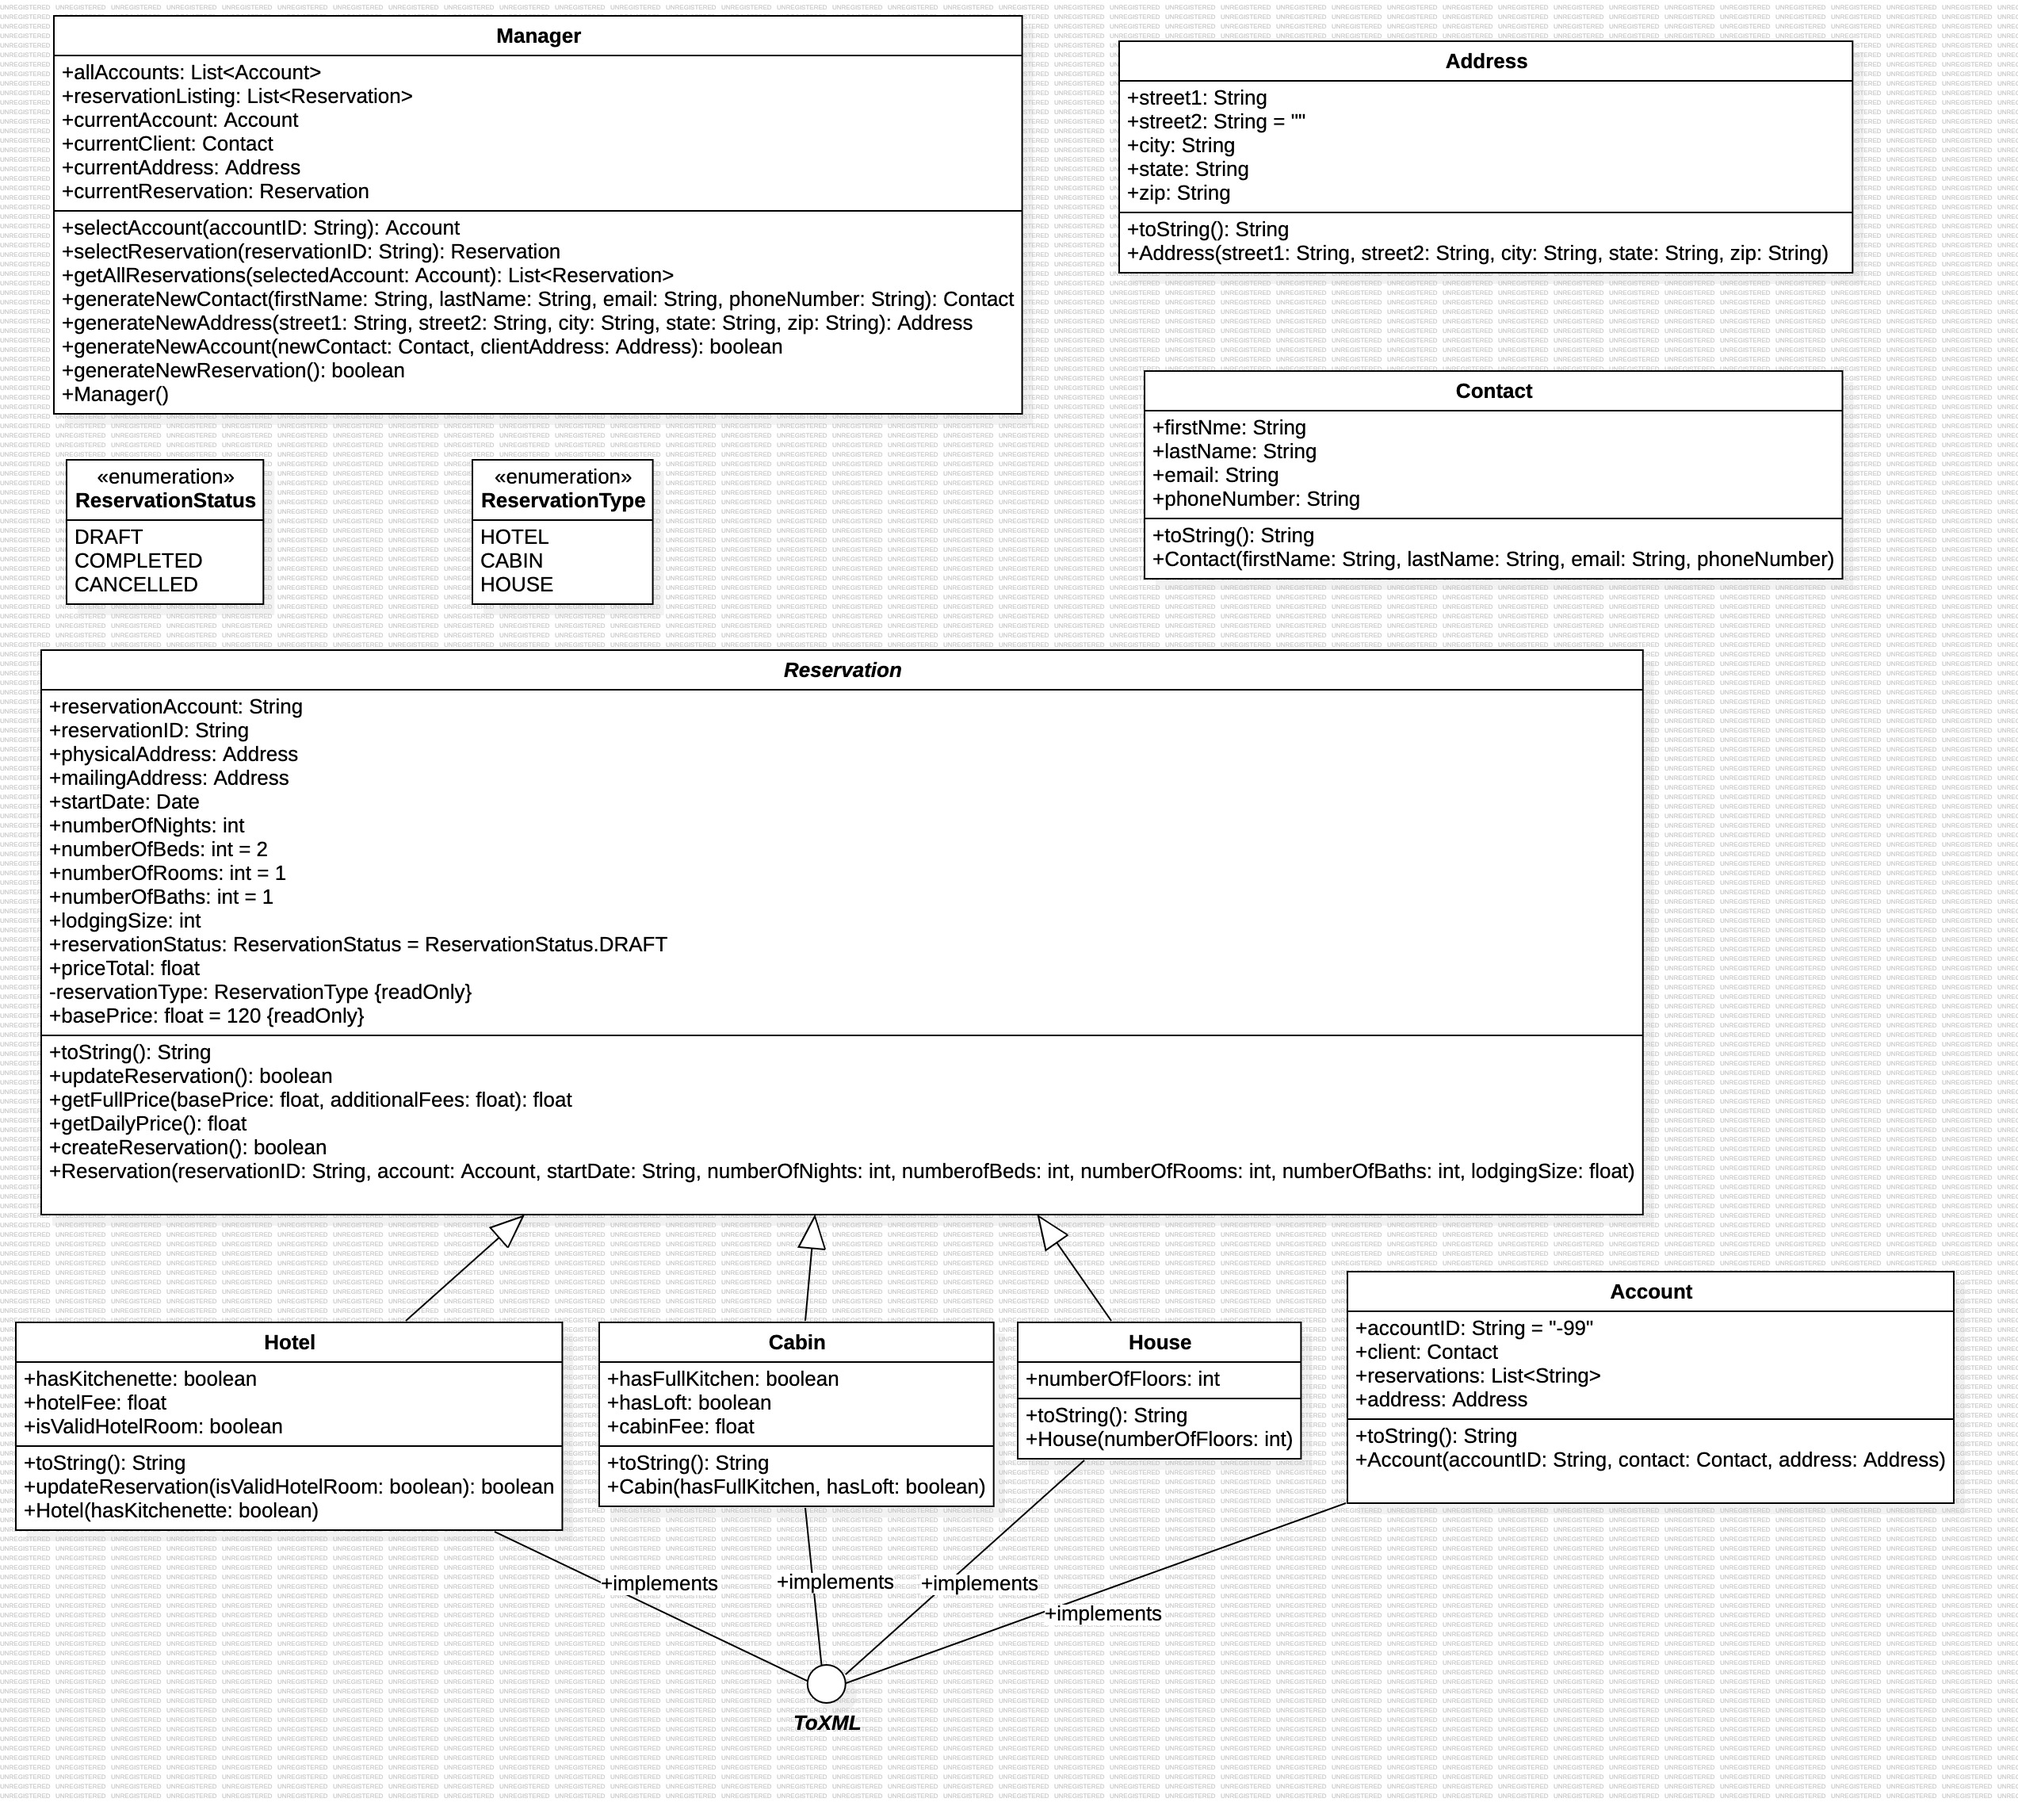
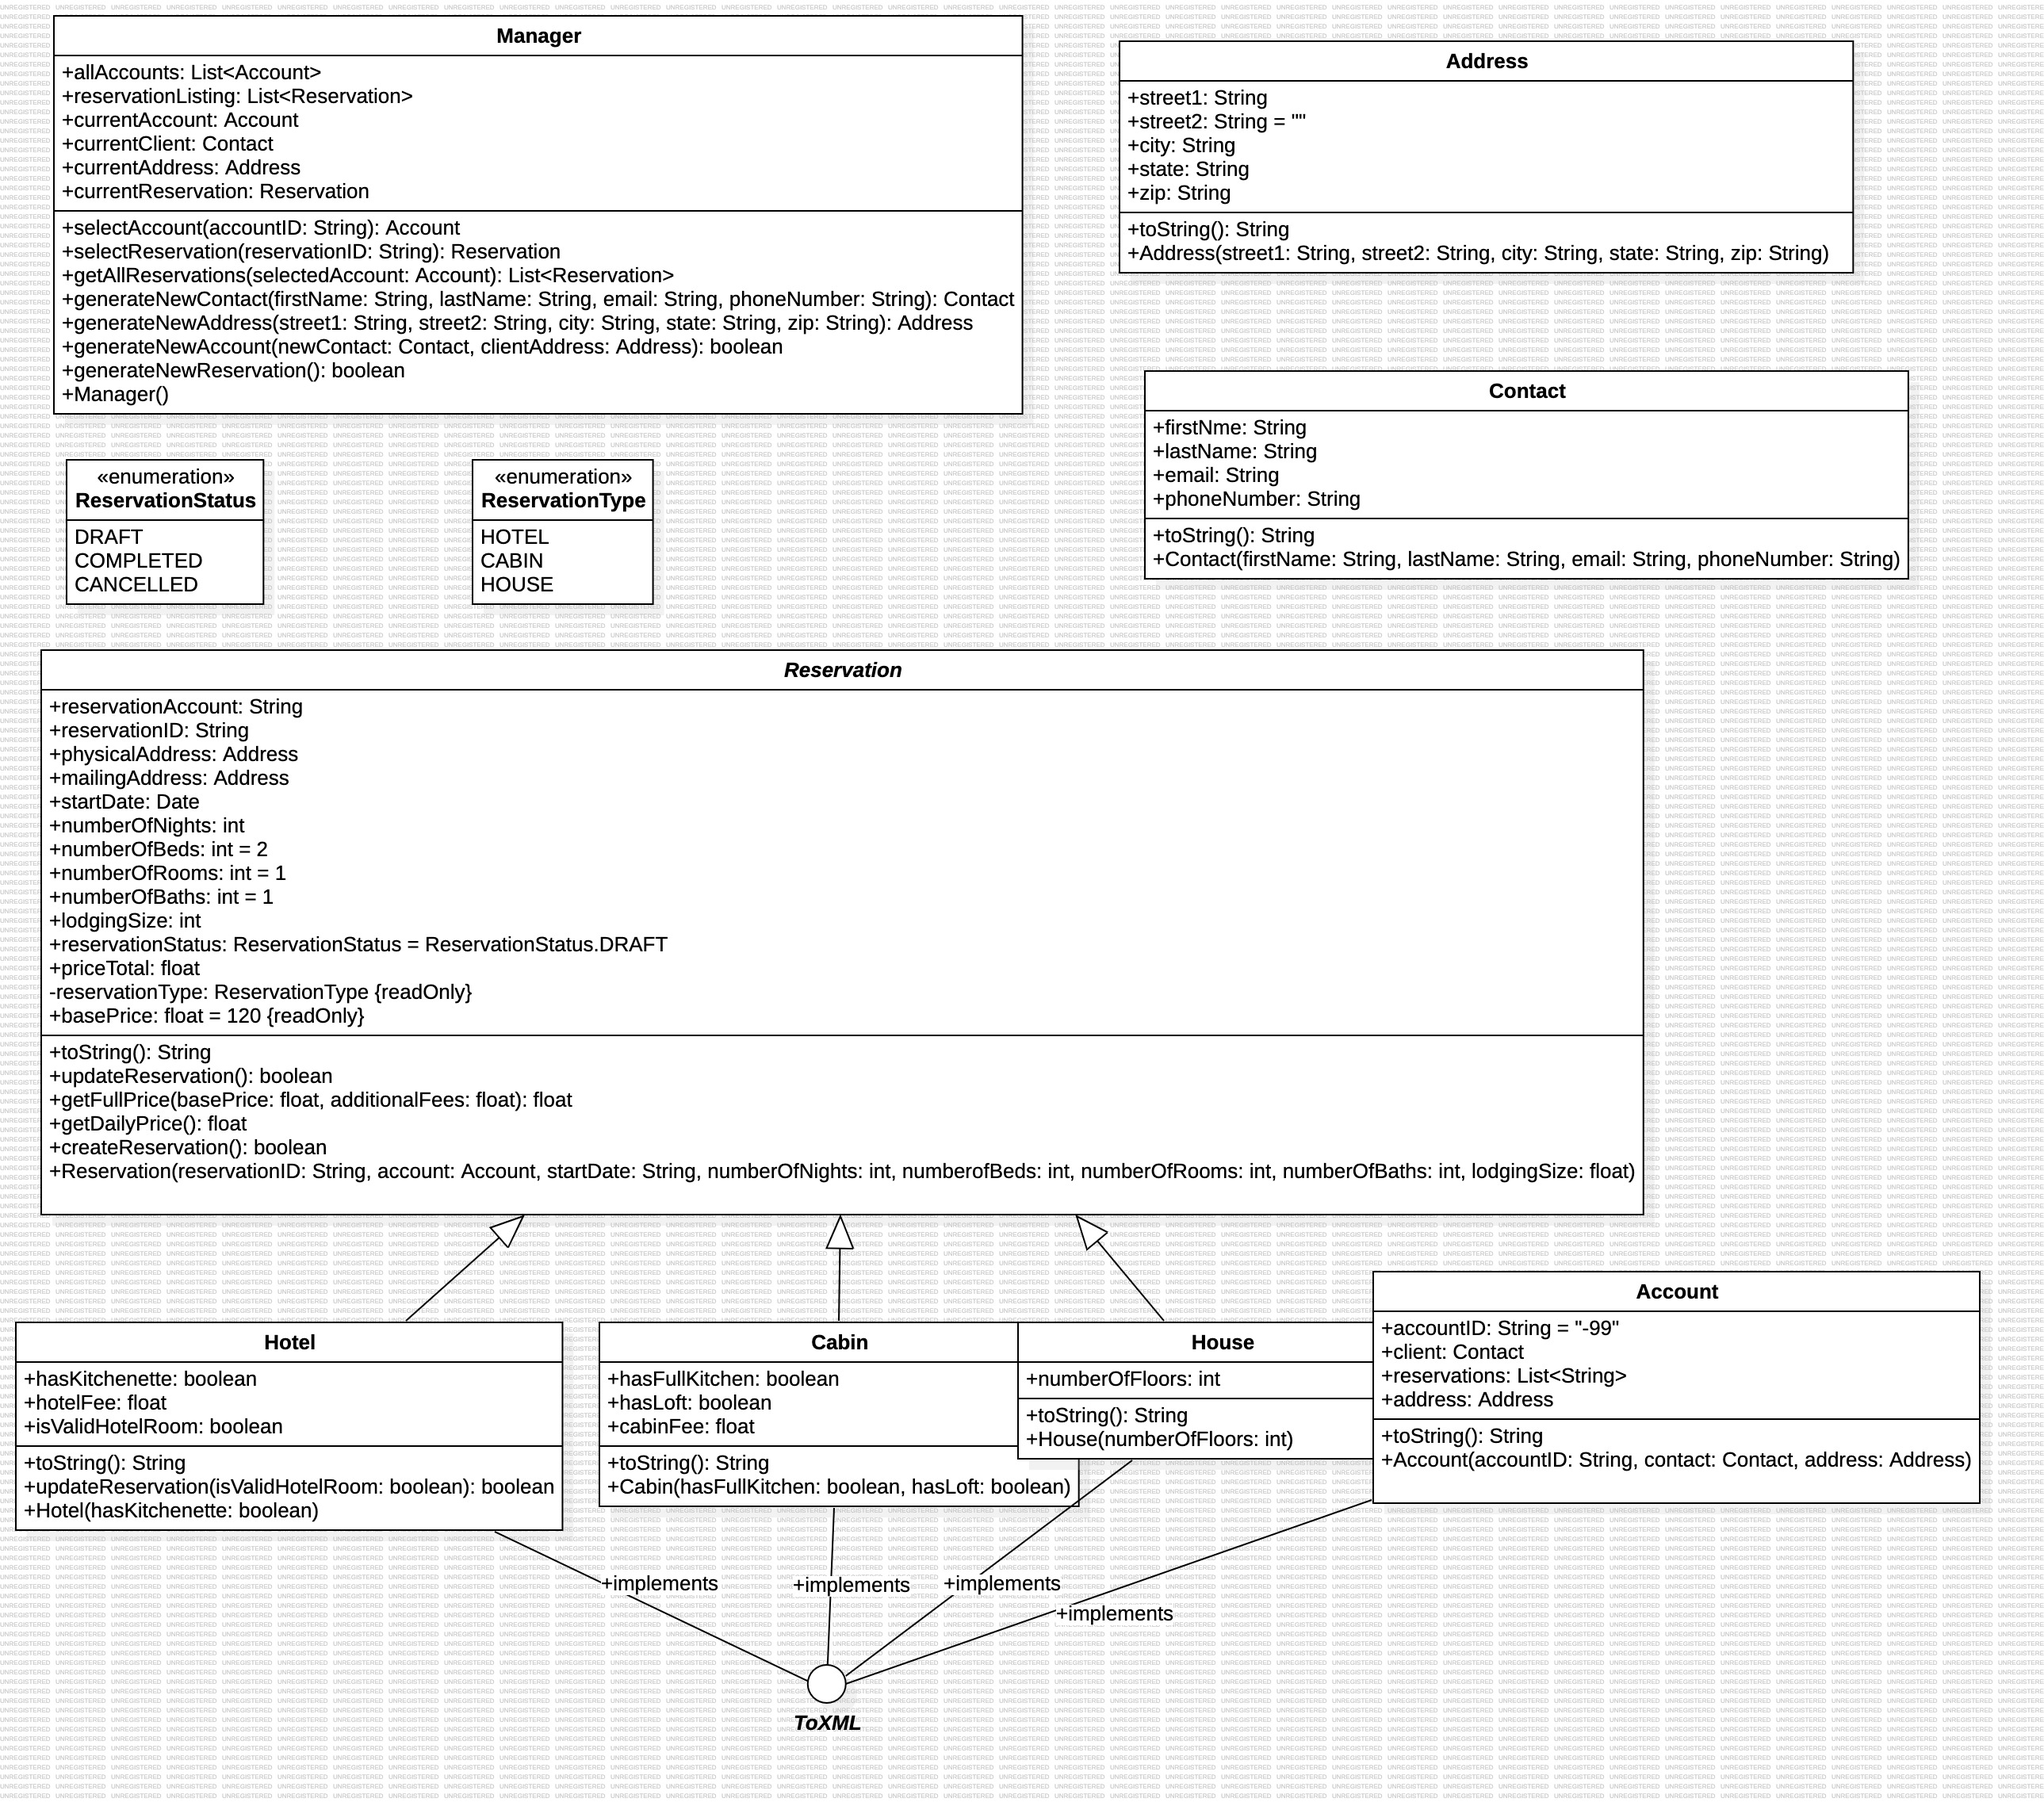
Final before implementing feedback

Changed region(s): [[0.0, 0.0, 1.0, 0.9974], [0.8068, 0.7792, 0.8998, 0.8104], [0.2482, 0.0, 0.2793, 0.0312]]

diff --git a/week3/AccommodationReservationManager/Reservation.java b/week3/AccommodationReservationManager/Reservation.java
@@ -7,9 +7,17 @@ import java.util.*;
 public abstract class Reservation {
 
     /**
-     * Default constructor
+     * @param reservationID 
+     * @param account 
+     * @param startDate 
+     * @param numberOfNights 
+     * @param numberofBeds 
+     * @param numberOfRooms 
+     * @param numberOfBaths 
+     * @param lodgingSize
      */
-    public Reservation() {
+    public void Reservation(String reservationID, Account account, String startDate, int numberOfNights, int numberofBeds, int numberOfRooms, int numberOfBaths, float lodgingSize) {
+        // TODO implement here
     }
 
     /**
@@ -129,18 +137,6 @@ public abstract class Reservation {
         return false;
     }
 
-    /**
-     * @param reservationID 
-     * @param account 
-     * @param startDate 
-     * @param numberOfNights 
-     * @param numberofBeds 
-     * @param numberOfRooms 
-     * @param numberOfBaths 
-     * @param lodgingSize
-     */
-    public void Reservation(String reservationID, Account account, String startDate, int numberOfNights, int numberofBeds, int numberOfRooms, int numberOfBaths, float lodgingSize) {
-        // TODO implement here
-    }
+    
 
 }

diff --git a/week3/AccommodationReservationManager/Cabin.java b/week3/AccommodationReservationManager/Cabin.java
@@ -6,10 +6,16 @@ import java.util.*;
  */
 public class Cabin extends Reservation implements ToXML {
 
-    /**
-     * Default constructor
+   /**
+     * Constructor
+     * super(reservationID, account, startDate, numberOfNights, numberOfBeds, numberOfRooms, numberOfBaths, lodgingSize)
+     * 
+     * cabinFee =  hasFullKitchen ? ( 20 + ( 5 * numberOfRooms) ) : (5 * numberOfRooms)
+     * @param hasFullKitchen 
+     * @param hasLoft
      */
-    public Cabin() {
+    public Cabin(boolean hasFullKitchen, boolean hasLoft) {
+        // TODO implement here
     }
 
     /**
@@ -35,16 +41,6 @@ public class Cabin extends Reservation implements ToXML {
         return "";
     }
 
-    /**
-     * Constructor
-     * super(reservationID, account, startDate, numberOfNights, numberOfBeds, numberOfRooms, numberOfBaths, lodgingSize)
-     * 
-     * cabinFee =  hasFullKitchen ? ( 20 + ( 5 * numberOfRooms) ) : (5 * numberOfRooms)
-     * @param hasFullKitchen 
-     * @param hasLoft
-     */
-    public void Cabin(void hasFullKitchen, boolean hasLoft) {
-        // TODO implement here
-    }
+    
 
 }

diff --git a/week3/AccommodationReservationManager/Hotel.java b/week3/AccommodationReservationManager/Hotel.java
@@ -7,9 +7,14 @@ import java.util.*;
 public class Hotel extends Reservation implements ToXML {
 
     /**
-     * Default constructor
+     * Constructor
+     * super(reservationID, account, startDate, numberOfNights, numberOfBeds, numberOfRooms, numberOfBaths, lodgingSize)
+     * 
+     * hotelFee = hasKitchenette ? 60.00 : 50.00
+     * @param hasKitchenette
      */
-    public Hotel() {
+    public Hotel(boolean hasKitchenette) {
+        // TODO implement here
     }
 
     /**
@@ -49,15 +54,6 @@ public class Hotel extends Reservation implements ToXML {
         return false;
     }
 
-    /**
-     * Constructor
-     * super(reservationID, account, startDate, numberOfNights, numberOfBeds, numberOfRooms, numberOfBaths, lodgingSize)
-     * 
-     * hotelFee = hasKitchenette ? 60.00 : 50.00
-     * @param hasKitchenette
-     */
-    public void Hotel(boolean hasKitchenette) {
-        // TODO implement here
-    }
+    
 
 }

diff --git a/week3/AccommodationReservationManager/Address.java b/week3/AccommodationReservationManager/Address.java
@@ -7,9 +7,16 @@ import java.util.*;
 public class Address {
 
     /**
-     * Default constructor
+     * Default Constrctor for Address
+     * Takes all fields as parameters
+     * @param street1 
+     * @param street2 
+     * @param city 
+     * @param state 
+     * @param zip
      */
-    public Address() {
+    public Address(String street1, String street2, String city, String state, String zip) {
+        // TODO implement here
     }
 
     /**
@@ -45,17 +52,6 @@ public class Address {
         return "";
     }
 
-    /**
-     * Default Constrctor for Address
-     * Takes all fields as parameters
-     * @param street1 
-     * @param street2 
-     * @param city 
-     * @param state 
-     * @param zip
-     */
-    public void Address(String street1, String street2, String city, String state, String zip) {
-        // TODO implement here
-    }
+   
 
 }

diff --git a/week3/AccommodationReservationManager/Contact.java b/week3/AccommodationReservationManager/Contact.java
@@ -8,10 +8,16 @@ import java.util.*;
 public class Contact {
 
     /**
-     * Default constructor
+     * Default Constructor, takes all fields as parameters
+     * @param firstName 
+     * @param lastName 
+     * @param email 
+     * @param phoneNumber
      */
-    public Contact() {
+    public Contact(String firstName, String lastName, String email, String phoneNumber)  {
+        // TODO implement here
     }
+   
 
     /**
      * 
@@ -41,15 +47,6 @@ public class Contact {
         return "";
     }
 
-    /**
-     * Default Constructor, takes all fields as parameters
-     * @param firstName 
-     * @param lastName 
-     * @param email 
-     * @param phoneNumber
-     */
-    public void Contact(String firstName, String lastName, String email, void phoneNumber) {
-        // TODO implement here
-    }
+    
 
 }

diff --git a/week3/AccommodationReservationManager/Account.java b/week3/AccommodationReservationManager/Account.java
@@ -7,9 +7,14 @@ import java.util.*;
 public class Account implements ToXML {
 
     /**
-     * Default constructor
+     * Account Constructor
+     * Take Contact and Address object references as parameters
+     * @param accountID 
+     * @param contact 
+     * @param address
      */
-    public Account() {
+    public Account(String accountID, Contact contact, Address address) {
+        // TODO implement here
     }
 
     /**
@@ -40,15 +45,6 @@ public class Account implements ToXML {
         return "";
     }
 
-    /**
-     * Account Constructor
-     * Take Contact and Address object references as parameters
-     * @param accountID 
-     * @param contact 
-     * @param address
-     */
-    public void Account(String accountID, Contact contact, Address address) {
-        // TODO implement here
-    }
+    
 
 }

diff --git a/week3/AccommodationReservationManager/House.java b/week3/AccommodationReservationManager/House.java
@@ -7,9 +7,12 @@ import java.util.*;
 public class House extends Reservation implements ToXML {
 
     /**
-     * Default constructor
+     * Constructor
+     * super(reservationID, account, startDate, numberOfNights, numberOfBeds, numberOfRooms, numberOfBaths, lodgingSize)
+     * @param numberOfFloors
      */
-    public House() {
+    public House(int numberOfFloors) {
+        // TODO implement here
     }
 
     /**
@@ -25,13 +28,6 @@ public class House extends Reservation implements ToXML {
         return "";
     }
 
-    /**
-     * Constructor
-     * super(reservationID, account, startDate, numberOfNights, numberOfBeds, numberOfRooms, numberOfBaths, lodgingSize)
-     * @param numberOfFloors
-     */
-    public void House(int numberOfFloors) {
-        // TODO implement here
-    }
+    
 
 }

diff --git a/week3/AccommodationReservationManager/Manager.java b/week3/AccommodationReservationManager/Manager.java
@@ -9,6 +9,7 @@ public class Manager {
 
     /**
      * Default constructor
+     * Takes No Parameters
      */
     public Manager() {
     }
@@ -118,12 +119,4 @@ public class Manager {
         // TODO implement here
         return false;
     }
-
-    /**
-     * Default Constructor takes no parameters
-     */
-    public void Manager() {
-        // TODO implement here
-    }
-
 }
